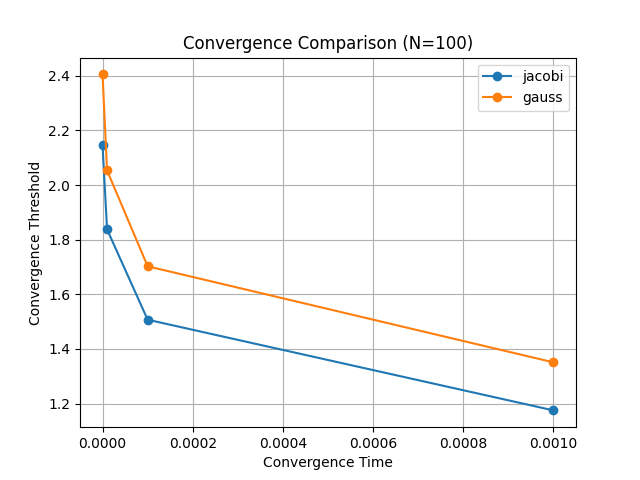
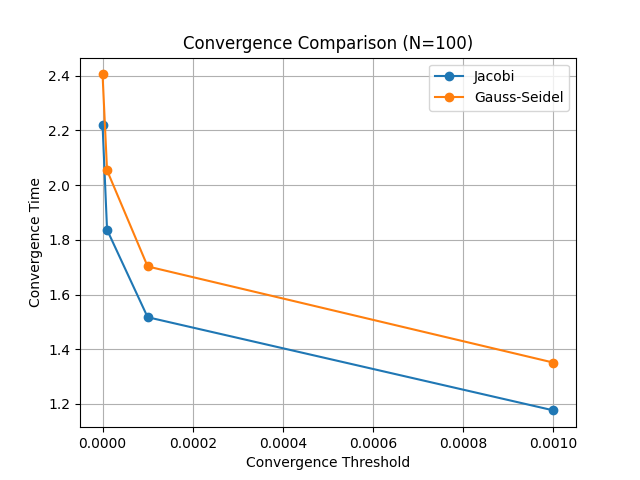
upload data + minor plot fixes

diff --git a/speedupplot.py b/speedupplot.py
@@ -70,8 +70,6 @@ if __name__ == "__main__":
         # plot the memory hierarchy diagram 
         mem_size.append([pair[0]+spacing for pair in data])
         flops.append([pair[1] for pair in data])
-        labels.append(label)
-        labels.append(label+" speedup")
         intermediate_mem_size = [pair[0]+spacing*0.5 for pair in data]
         
         #amdahl
@@ -79,6 +77,10 @@ if __name__ == "__main__":
         spacing+=0.5
         iterator+=1
 
+    labels.append("Jacobi (OMP)")
+    labels.append("Gauss-Seidel (OMP)")
+    labels.append("Jacobi (OMP) Speedup")
+    labels.append("Gauss-Seidel (OMP) Speedup")
 
     ax1.bar(mem_size[0], flops[0], width=width, color='b', align='center')
     ax1.bar(mem_size[1], flops[1], width=width, color='g', align='center')

diff --git a/convergeplot.py b/convergeplot.py
@@ -60,8 +60,8 @@ if __name__ == "__main__":
         flops = [pair[1] for pair in data]
         plt.plot(mem_size, flops, marker='o', linestyle='-', label=label)  
 
-    plt.xlabel('Convergence Time')
-    plt.ylabel('Convergence Threshold')
+    plt.ylabel('Convergence Time')
+    plt.xlabel('Convergence Threshold')
     # for label, cache in caches:
     #     plt.axvline(x=cache, color='r', linestyle='--', linewidth=1, label=label)
     

diff --git a/convertdata.py b/convertdata.py
@@ -14,7 +14,7 @@ for filename in filenames:
     n = [re.findall(r'(?<=N:(\s)+)(\d+)\w*',line) 
             for line in open(f'src/logs/{filename}.log')]
 
-    tolerance = [re.findall(r'(?<=Tolerance:(\s)+)(\d+\.\d+)\w+',line) 
+    tolerance = [re.findall(r'(?<=Tolerance:(\s)+)((-)*\d+\.\d+)\w+',line) 
             for line in open(f'src/logs/{filename}.log')]
 
     time = [re.findall(r'(?<=Time:(\s)+)(\d+\.\d+)\w+',line) 
